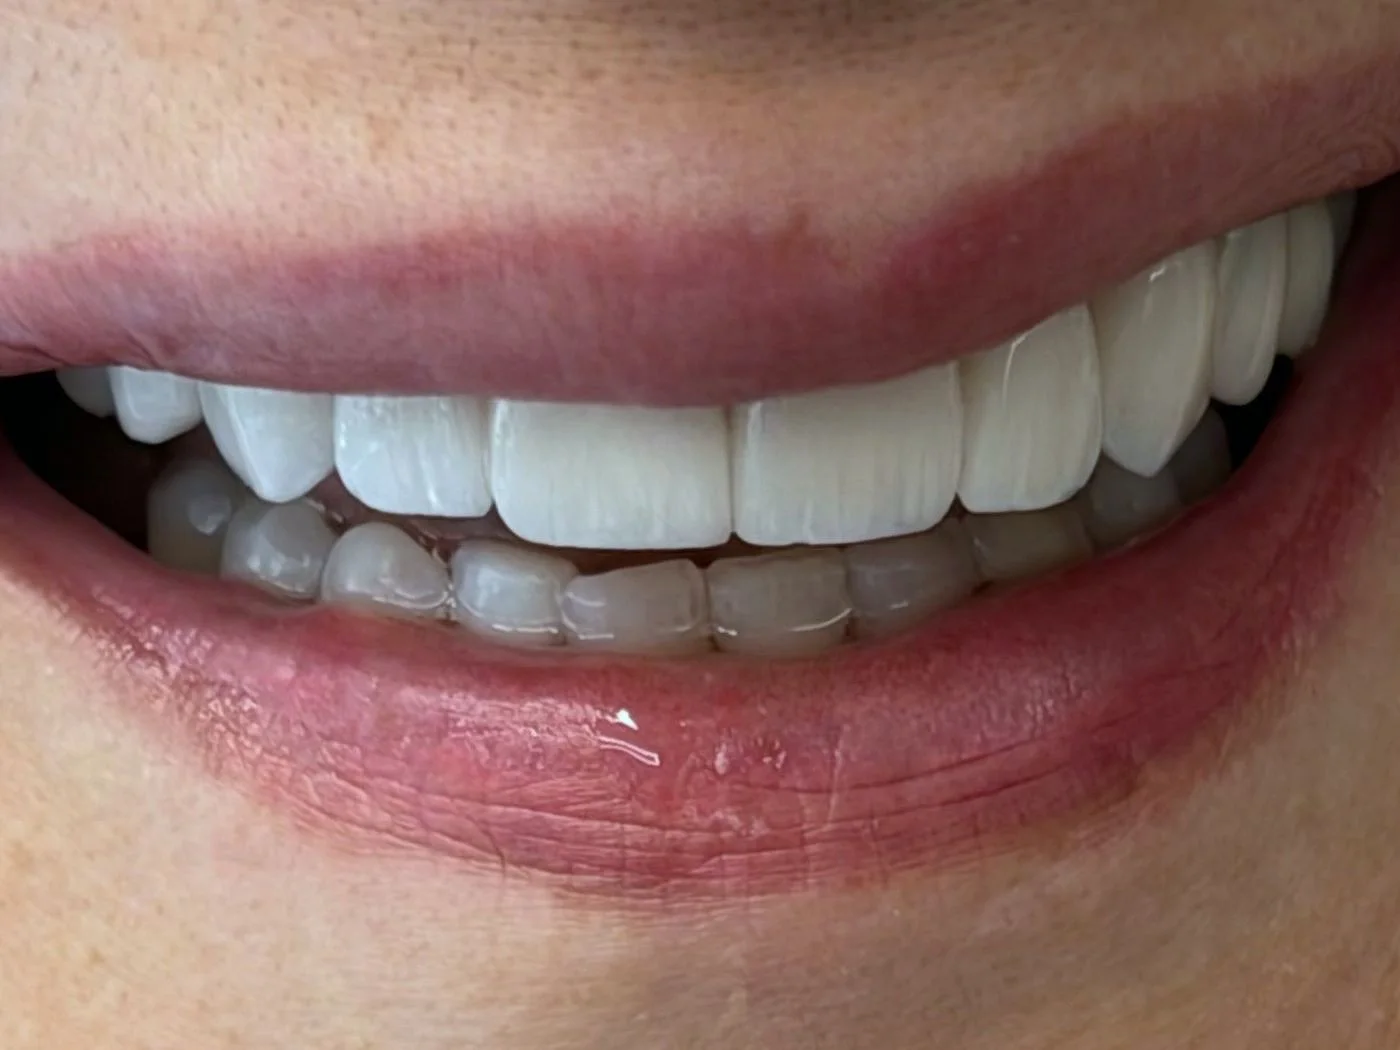
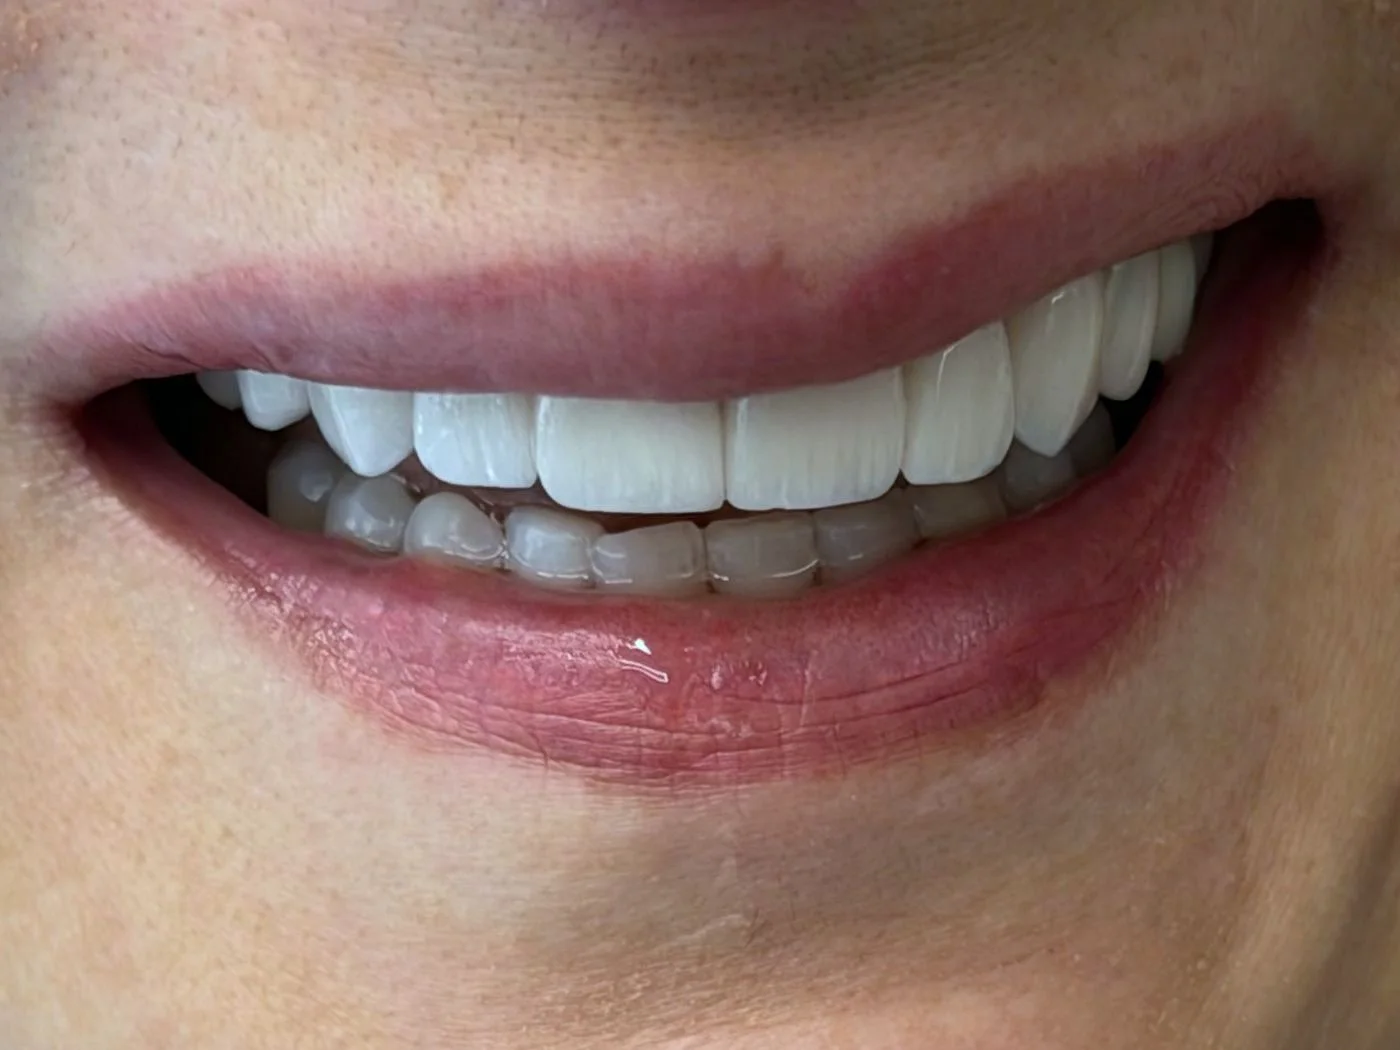
Arregla las tarjetas de pieza unica y abre el encuadre del recambio
DOS TARJETAS SALIAN VACIAS. Implantes cigomaticos y la radiografia de All-on-4
no mostraban nada. Causa: en el par antes/despues la altura la da `grid-rows-2`,
pero en la pieza unica no hay rejilla, asi que el contenedor colapsaba a cero y
la imagen, que va con `fill`, desaparecia. Se le pone `h-full` explicito.

RECAMBIO DE CARILLAS. El "antes" estaba tan cerrado que solo se veian los
centrales y no habia con que comparar. Se abre el recorte al maximo del original
y se ajusta el despues para que coincidan: ahora las dos muestran la sonrisa
completa.

Verificado: 14 tarjetas en el carrusel (las 7 duplicadas para el bucle) y las
dos imagenes de pieza unica cargando.

diff --git a/components/sections/RecentCasesGrid.tsx b/components/sections/RecentCasesGrid.tsx
@@ -259,7 +259,13 @@ export default function RecentCasesGrid({ locale }: Props) {
                       ? ([['antes', tile.antes], ['despues', tile.despues]] as const)
                       : ([['unica', tile.antes]] as const)
                     ).map(([lado, src]) => (
-                      <div key={lado} className="relative overflow-hidden">
+                      /*
+                        `h-full` es obligatorio en el caso de pieza única: sin
+                        rejilla que le dé altura, el contenedor colapsa a cero y
+                        la imagen (que va con `fill`) desaparece. En el par lo
+                        da grid-rows-2, pero aquí hay que ponerlo a mano.
+                      */
+                      <div key={lado} className="relative overflow-hidden h-full">
                         <Image
                           src={src}
                           alt={i >= TILES.length ? '' : `${isEs ? tile.alt.es : tile.alt.en} (${lado === 'antes' ? (isEs ? 'antes' : 'before') : (isEs ? 'después' : 'after')})`}
